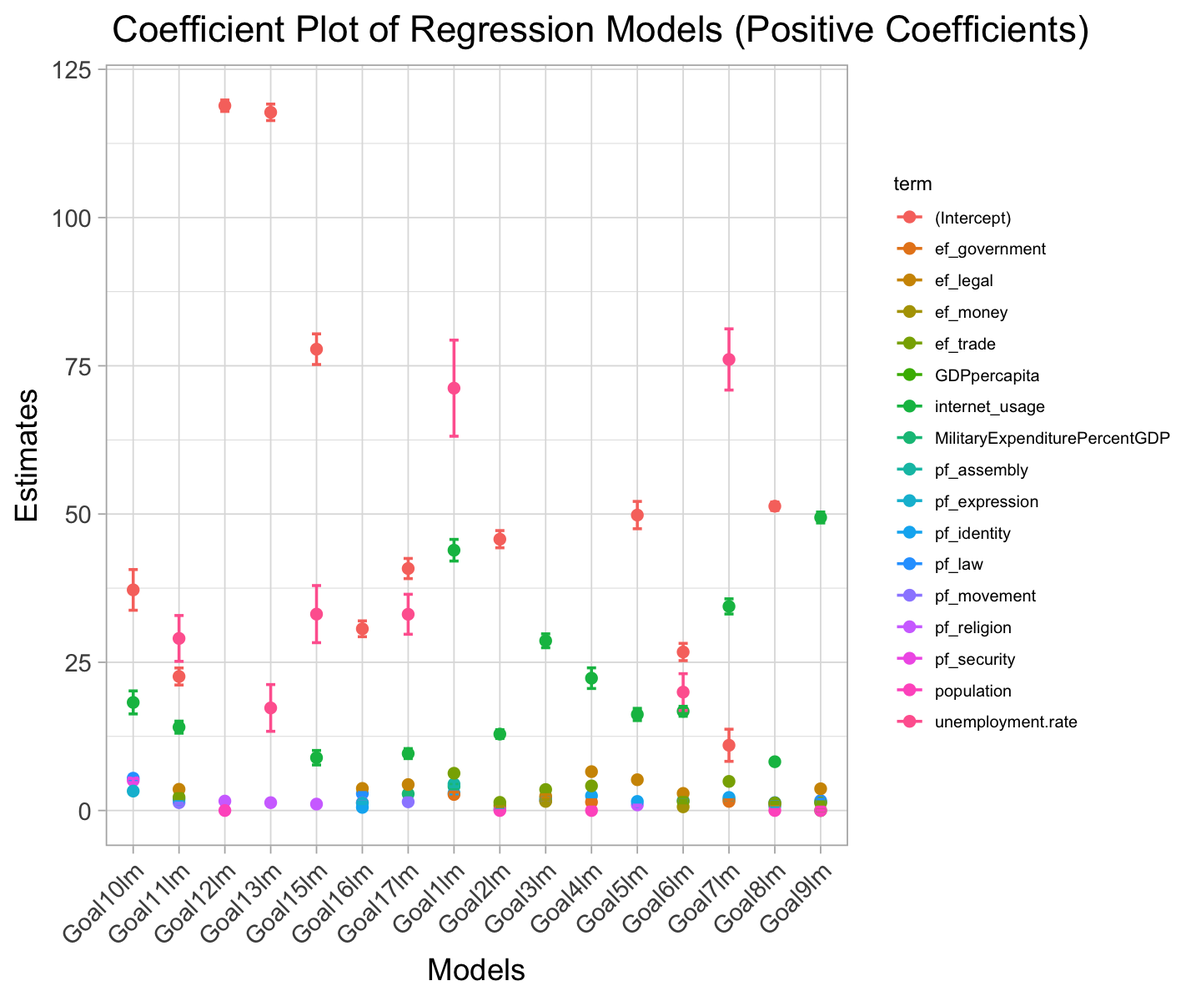
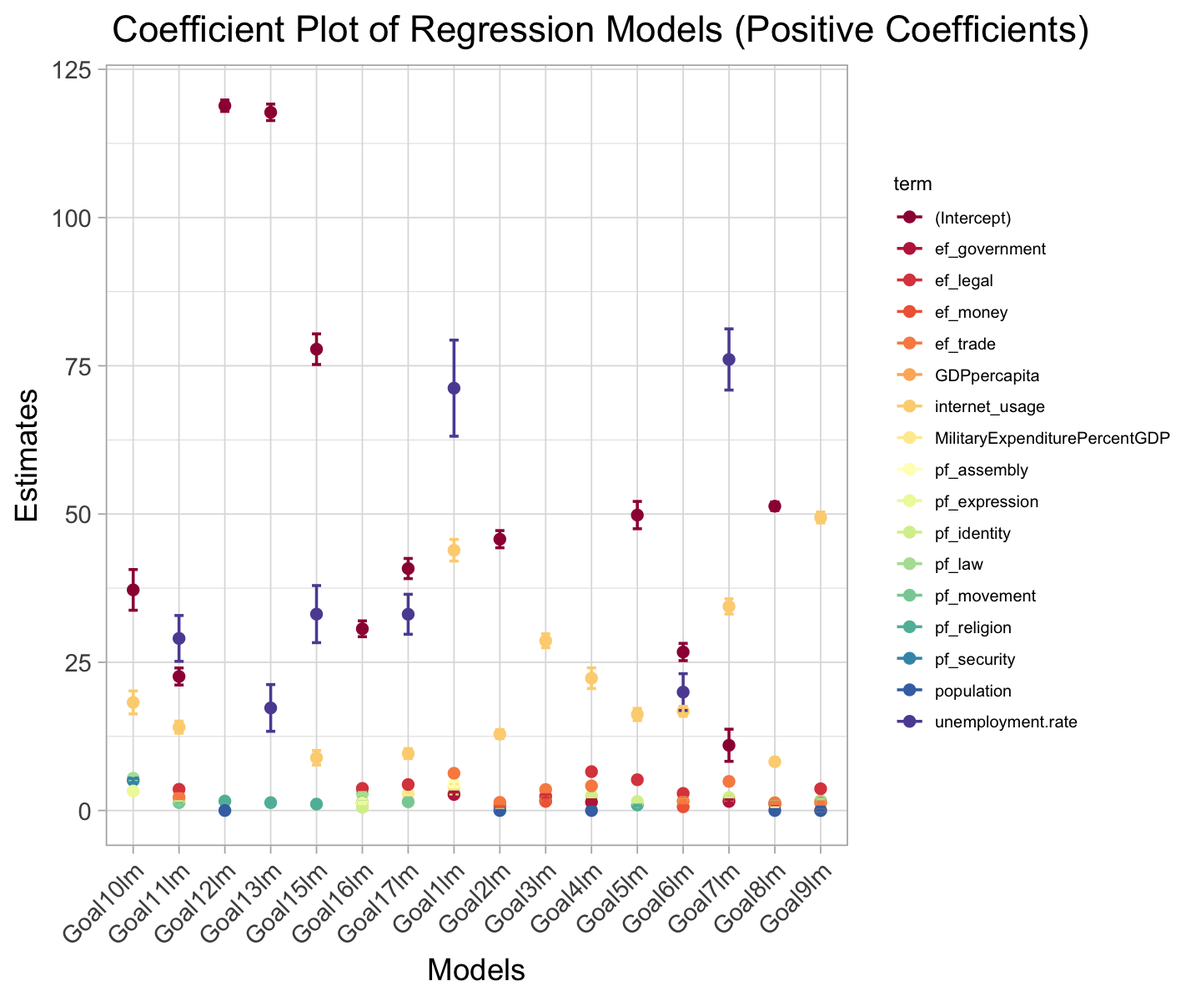
我太爱了 Data Science

diff --git a/report/question1.html b/report/question1.html
@@ -946,34 +946,36 @@ Goal17\sim \beta_0 &amp;+ unemployment.rate*\beta_1 + MilitaryExpenditurePercent
 <span id="cb16-34"><a href="#cb16-34" aria-hidden="true" tabindex="-1"></a></span>
 <span id="cb16-35"><a href="#cb16-35" aria-hidden="true" tabindex="-1"></a><span class="co">#coefficient plot</span></span>
 <span id="cb16-36"><a href="#cb16-36" aria-hidden="true" tabindex="-1"></a></span>
-<span id="cb16-37"><a href="#cb16-37" aria-hidden="true" tabindex="-1"></a><span class="co">#library('broom')</span></span>
-<span id="cb16-38"><a href="#cb16-38" aria-hidden="true" tabindex="-1"></a><span class="co"># Create a dataframe of tidy models</span></span>
-<span id="cb16-39"><a href="#cb16-39" aria-hidden="true" tabindex="-1"></a>model_list <span class="ot">&lt;-</span> <span class="fu">list</span>(Goal1lm, Goal2lm, Goal3lm, Goal4lm, Goal5lm, Goal6lm, Goal7lm, Goal8lm, Goal9lm, Goal10lm, Goal11lm, Goal12lm, Goal13lm, Goal15lm, Goal16lm, Goal17lm)</span>
-<span id="cb16-40"><a href="#cb16-40" aria-hidden="true" tabindex="-1"></a></span>
-<span id="cb16-41"><a href="#cb16-41" aria-hidden="true" tabindex="-1"></a>models_tidy <span class="ot">&lt;-</span> <span class="fu">lapply</span>(model_list, tidy)</span>
-<span id="cb16-42"><a href="#cb16-42" aria-hidden="true" tabindex="-1"></a><span class="fu">names</span>(models_tidy) <span class="ot">&lt;-</span> <span class="fu">paste</span>(<span class="st">"Goal"</span>, <span class="fu">c</span>(<span class="dv">1</span><span class="sc">:</span><span class="dv">13</span>, <span class="dv">15</span><span class="sc">:</span><span class="dv">17</span>), <span class="st">"lm"</span>, <span class="at">sep=</span><span class="st">""</span>)</span>
-<span id="cb16-43"><a href="#cb16-43" aria-hidden="true" tabindex="-1"></a></span>
-<span id="cb16-44"><a href="#cb16-44" aria-hidden="true" tabindex="-1"></a><span class="co"># Combine into a single dataframe</span></span>
-<span id="cb16-45"><a href="#cb16-45" aria-hidden="true" tabindex="-1"></a>df_tidy <span class="ot">&lt;-</span> <span class="fu">do.call</span>(rbind, <span class="fu">lapply</span>(<span class="fu">names</span>(models_tidy), <span class="cf">function</span>(x) <span class="fu">cbind</span>(models_tidy[[x]], <span class="at">Model=</span>x)))</span>
-<span id="cb16-46"><a href="#cb16-46" aria-hidden="true" tabindex="-1"></a></span>
-<span id="cb16-47"><a href="#cb16-47" aria-hidden="true" tabindex="-1"></a><span class="co"># Assuming 'p.value' is the column name for p-values in your dataframe</span></span>
-<span id="cb16-48"><a href="#cb16-48" aria-hidden="true" tabindex="-1"></a>significance_level <span class="ot">&lt;-</span> <span class="fl">0.05</span></span>
-<span id="cb16-49"><a href="#cb16-49" aria-hidden="true" tabindex="-1"></a></span>
-<span id="cb16-50"><a href="#cb16-50" aria-hidden="true" tabindex="-1"></a><span class="co"># Filter for significant p-values</span></span>
-<span id="cb16-51"><a href="#cb16-51" aria-hidden="true" tabindex="-1"></a>df_tidy_significant <span class="ot">&lt;-</span> df_tidy[df_tidy<span class="sc">$</span>p.value <span class="sc">&lt;</span> significance_level, ]</span>
+<span id="cb16-37"><a href="#cb16-37" aria-hidden="true" tabindex="-1"></a><span class="co"># Create a dataframe of tidy models</span></span>
+<span id="cb16-38"><a href="#cb16-38" aria-hidden="true" tabindex="-1"></a>model_list <span class="ot">&lt;-</span> <span class="fu">list</span>(Goal1lm, Goal2lm, Goal3lm, Goal4lm, Goal5lm, Goal6lm, Goal7lm, Goal8lm, Goal9lm, Goal10lm, Goal11lm, Goal12lm, Goal13lm, Goal15lm, Goal16lm, Goal17lm)</span>
+<span id="cb16-39"><a href="#cb16-39" aria-hidden="true" tabindex="-1"></a></span>
+<span id="cb16-40"><a href="#cb16-40" aria-hidden="true" tabindex="-1"></a>models_tidy <span class="ot">&lt;-</span> <span class="fu">lapply</span>(model_list, tidy)</span>
+<span id="cb16-41"><a href="#cb16-41" aria-hidden="true" tabindex="-1"></a><span class="fu">names</span>(models_tidy) <span class="ot">&lt;-</span> <span class="fu">paste</span>(<span class="st">"Goal"</span>, <span class="fu">c</span>(<span class="dv">1</span><span class="sc">:</span><span class="dv">13</span>, <span class="dv">15</span><span class="sc">:</span><span class="dv">17</span>), <span class="st">"lm"</span>, <span class="at">sep=</span><span class="st">""</span>)</span>
+<span id="cb16-42"><a href="#cb16-42" aria-hidden="true" tabindex="-1"></a></span>
+<span id="cb16-43"><a href="#cb16-43" aria-hidden="true" tabindex="-1"></a><span class="co"># Combine into a single dataframe</span></span>
+<span id="cb16-44"><a href="#cb16-44" aria-hidden="true" tabindex="-1"></a>df_tidy <span class="ot">&lt;-</span> <span class="fu">do.call</span>(rbind, <span class="fu">lapply</span>(<span class="fu">names</span>(models_tidy), <span class="cf">function</span>(x) <span class="fu">cbind</span>(models_tidy[[x]], <span class="at">Model=</span>x)))</span>
+<span id="cb16-45"><a href="#cb16-45" aria-hidden="true" tabindex="-1"></a></span>
+<span id="cb16-46"><a href="#cb16-46" aria-hidden="true" tabindex="-1"></a><span class="co"># Assuming 'p.value' is the column name for p-values in your dataframe</span></span>
+<span id="cb16-47"><a href="#cb16-47" aria-hidden="true" tabindex="-1"></a>significance_level <span class="ot">&lt;-</span> <span class="fl">0.05</span></span>
+<span id="cb16-48"><a href="#cb16-48" aria-hidden="true" tabindex="-1"></a></span>
+<span id="cb16-49"><a href="#cb16-49" aria-hidden="true" tabindex="-1"></a><span class="co"># Filter for significant p-values</span></span>
+<span id="cb16-50"><a href="#cb16-50" aria-hidden="true" tabindex="-1"></a>df_tidy_significant <span class="ot">&lt;-</span> df_tidy[df_tidy<span class="sc">$</span>p.value <span class="sc">&lt;</span> significance_level, ]</span>
+<span id="cb16-51"><a href="#cb16-51" aria-hidden="true" tabindex="-1"></a><span class="fu">library</span>(RColorBrewer)</span>
 <span id="cb16-52"><a href="#cb16-52" aria-hidden="true" tabindex="-1"></a></span>
-<span id="cb16-53"><a href="#cb16-53" aria-hidden="true" tabindex="-1"></a><span class="co"># Plot</span></span>
-<span id="cb16-54"><a href="#cb16-54" aria-hidden="true" tabindex="-1"></a><span class="fu">ggplot</span>(df_tidy_significant, <span class="fu">aes</span>(<span class="at">x =</span> Model, <span class="at">y =</span> estimate, <span class="at">color =</span> term)) <span class="sc">+</span></span>
-<span id="cb16-55"><a href="#cb16-55" aria-hidden="true" tabindex="-1"></a>  <span class="fu">geom_point</span>() <span class="sc">+</span></span>
-<span id="cb16-56"><a href="#cb16-56" aria-hidden="true" tabindex="-1"></a>  <span class="fu">geom_errorbar</span>(<span class="fu">aes</span>(<span class="at">ymin =</span> estimate <span class="sc">-</span> std.error, <span class="at">ymax =</span> estimate <span class="sc">+</span> std.error), <span class="at">width =</span> <span class="fl">0.2</span>) <span class="sc">+</span></span>
-<span id="cb16-57"><a href="#cb16-57" aria-hidden="true" tabindex="-1"></a>  <span class="fu">theme</span>(<span class="at">axis.text.x =</span> <span class="fu">element_text</span>(<span class="at">angle =</span> <span class="dv">45</span>, <span class="at">hjust =</span> <span class="dv">1</span>),</span>
-<span id="cb16-58"><a href="#cb16-58" aria-hidden="true" tabindex="-1"></a>        <span class="at">plot.title =</span> <span class="fu">element_text</span>(<span class="at">hjust =</span> <span class="fl">0.5</span>), <span class="co"># Center the title</span></span>
-<span id="cb16-59"><a href="#cb16-59" aria-hidden="true" tabindex="-1"></a>        <span class="at">plot.title.position =</span> <span class="st">"plot"</span>,</span>
-<span id="cb16-60"><a href="#cb16-60" aria-hidden="true" tabindex="-1"></a>        <span class="at">legend.position =</span> <span class="st">"right"</span>, <span class="co"># You can change the position if needed</span></span>
-<span id="cb16-61"><a href="#cb16-61" aria-hidden="true" tabindex="-1"></a>        <span class="at">legend.text =</span> <span class="fu">element_text</span>(<span class="at">size =</span> <span class="dv">6</span>), <span class="co"># Adjust text size</span></span>
-<span id="cb16-62"><a href="#cb16-62" aria-hidden="true" tabindex="-1"></a>        <span class="at">legend.title =</span> <span class="fu">element_text</span>(<span class="at">size =</span> <span class="dv">7</span>), <span class="co"># Adjust title size</span></span>
-<span id="cb16-63"><a href="#cb16-63" aria-hidden="true" tabindex="-1"></a>        <span class="at">legend.key.size =</span> <span class="fu">unit</span>(<span class="fl">0.4</span>, <span class="st">"cm"</span>)) <span class="sc">+</span>  <span class="co"># Adjust key size) +</span></span>
-<span id="cb16-64"><a href="#cb16-64" aria-hidden="true" tabindex="-1"></a>  <span class="fu">labs</span>(<span class="at">title =</span> <span class="st">"Coefficient Plot of Regression Models"</span>, <span class="at">x =</span> <span class="st">"Models"</span>, <span class="at">y =</span> <span class="st">"Estimates"</span>)</span></code><button title="Copy to Clipboard" class="code-copy-button"><i class="bi"></i></button></pre></div>
+<span id="cb16-53"><a href="#cb16-53" aria-hidden="true" tabindex="-1"></a>myColors <span class="ot">&lt;-</span> <span class="fu">colorRampPalette</span>(<span class="fu">brewer.pal</span>(<span class="dv">11</span>, <span class="st">"Spectral"</span>))(<span class="fu">length</span>(<span class="fu">unique</span>(df_tidy_significant<span class="sc">$</span>term)))</span>
+<span id="cb16-54"><a href="#cb16-54" aria-hidden="true" tabindex="-1"></a><span class="co"># Plot</span></span>
+<span id="cb16-55"><a href="#cb16-55" aria-hidden="true" tabindex="-1"></a><span class="fu">ggplot</span>(df_tidy_significant, <span class="fu">aes</span>(<span class="at">x =</span> Model, <span class="at">y =</span> estimate, <span class="at">color =</span> term)) <span class="sc">+</span></span>
+<span id="cb16-56"><a href="#cb16-56" aria-hidden="true" tabindex="-1"></a>  <span class="fu">geom_point</span>() <span class="sc">+</span></span>
+<span id="cb16-57"><a href="#cb16-57" aria-hidden="true" tabindex="-1"></a>  <span class="fu">geom_errorbar</span>(<span class="fu">aes</span>(<span class="at">ymin =</span> estimate <span class="sc">-</span> std.error, <span class="at">ymax =</span> estimate <span class="sc">+</span> std.error), <span class="at">width =</span> <span class="fl">0.2</span>) <span class="sc">+</span></span>
+<span id="cb16-58"><a href="#cb16-58" aria-hidden="true" tabindex="-1"></a>  <span class="fu">scale_color_manual</span>(<span class="at">values =</span> myColors) <span class="sc">+</span> </span>
+<span id="cb16-59"><a href="#cb16-59" aria-hidden="true" tabindex="-1"></a>  <span class="fu">theme</span>(<span class="at">axis.text.x =</span> <span class="fu">element_text</span>(<span class="at">angle =</span> <span class="dv">45</span>, <span class="at">hjust =</span> <span class="dv">1</span>),</span>
+<span id="cb16-60"><a href="#cb16-60" aria-hidden="true" tabindex="-1"></a>        <span class="at">plot.title =</span> <span class="fu">element_text</span>(<span class="at">hjust =</span> <span class="fl">0.5</span>), <span class="co"># Center the title</span></span>
+<span id="cb16-61"><a href="#cb16-61" aria-hidden="true" tabindex="-1"></a>        <span class="at">plot.title.position =</span> <span class="st">"plot"</span>,</span>
+<span id="cb16-62"><a href="#cb16-62" aria-hidden="true" tabindex="-1"></a>        <span class="at">legend.position =</span> <span class="st">"right"</span>, <span class="co"># You can change the position if needed</span></span>
+<span id="cb16-63"><a href="#cb16-63" aria-hidden="true" tabindex="-1"></a>        <span class="at">legend.text =</span> <span class="fu">element_text</span>(<span class="at">size =</span> <span class="dv">6</span>), <span class="co"># Adjust text size</span></span>
+<span id="cb16-64"><a href="#cb16-64" aria-hidden="true" tabindex="-1"></a>        <span class="at">legend.title =</span> <span class="fu">element_text</span>(<span class="at">size =</span> <span class="dv">7</span>), <span class="co"># Adjust title size</span></span>
+<span id="cb16-65"><a href="#cb16-65" aria-hidden="true" tabindex="-1"></a>        <span class="at">legend.key.size =</span> <span class="fu">unit</span>(<span class="fl">0.4</span>, <span class="st">"cm"</span>)) <span class="sc">+</span>  <span class="co"># Adjust key size) +</span></span>
+<span id="cb16-66"><a href="#cb16-66" aria-hidden="true" tabindex="-1"></a>  <span class="fu">labs</span>(<span class="at">title =</span> <span class="st">"Coefficient Plot of Regression Models"</span>, <span class="at">x =</span> <span class="st">"Models"</span>, <span class="at">y =</span> <span class="st">"Estimates"</span>)</span></code><button title="Copy to Clipboard" class="code-copy-button"><i class="bi"></i></button></pre></div>
 <div class="cell-output-display">
 <div class="quarto-figure quarto-figure-center">
 <figure class="figure">
@@ -984,37 +986,40 @@ Goal17\sim \beta_0 &amp;+ unemployment.rate*\beta_1 + MilitaryExpenditurePercent
 </div>
 <p>Here is our general plot. For visualization purpose, let’s also plot the positive and negative correlation plots</p>
 <div class="cell" data-layout-align="center">
-<div class="sourceCode cell-code" id="cb17"><pre class="sourceCode r code-with-copy"><code class="sourceCode r"><span id="cb17-1"><a href="#cb17-1" aria-hidden="true" tabindex="-1"></a></span>
-<span id="cb17-2"><a href="#cb17-2" aria-hidden="true" tabindex="-1"></a><span class="co">#positive values only </span></span>
-<span id="cb17-3"><a href="#cb17-3" aria-hidden="true" tabindex="-1"></a>df_tidy_positive_p <span class="ot">&lt;-</span> df_tidy_significant[df_tidy_significant<span class="sc">$</span>estimate <span class="sc">&gt;</span> <span class="dv">0</span>, ]</span>
-<span id="cb17-4"><a href="#cb17-4" aria-hidden="true" tabindex="-1"></a></span>
+<div class="sourceCode cell-code" id="cb17"><pre class="sourceCode r code-with-copy"><code class="sourceCode r"><span id="cb17-1"><a href="#cb17-1" aria-hidden="true" tabindex="-1"></a><span class="co">#positive values only </span></span>
+<span id="cb17-2"><a href="#cb17-2" aria-hidden="true" tabindex="-1"></a>df_tidy_positive_p <span class="ot">&lt;-</span> df_tidy_significant[df_tidy_significant<span class="sc">$</span>estimate <span class="sc">&gt;</span> <span class="dv">0</span>, ]</span>
+<span id="cb17-3"><a href="#cb17-3" aria-hidden="true" tabindex="-1"></a></span>
+<span id="cb17-4"><a href="#cb17-4" aria-hidden="true" tabindex="-1"></a>myColors <span class="ot">&lt;-</span> <span class="fu">colorRampPalette</span>(<span class="fu">brewer.pal</span>(<span class="dv">11</span>, <span class="st">"Spectral"</span>))(<span class="fu">length</span>(<span class="fu">unique</span>(df_tidy_positive_p<span class="sc">$</span>term)))</span>
 <span id="cb17-5"><a href="#cb17-5" aria-hidden="true" tabindex="-1"></a><span class="co"># Plot only positive coefficients</span></span>
 <span id="cb17-6"><a href="#cb17-6" aria-hidden="true" tabindex="-1"></a><span class="fu">ggplot</span>(df_tidy_positive_p, <span class="fu">aes</span>(<span class="at">x =</span> Model, <span class="at">y =</span> estimate, <span class="at">color =</span> term)) <span class="sc">+</span></span>
 <span id="cb17-7"><a href="#cb17-7" aria-hidden="true" tabindex="-1"></a>  <span class="fu">geom_point</span>() <span class="sc">+</span></span>
 <span id="cb17-8"><a href="#cb17-8" aria-hidden="true" tabindex="-1"></a>  <span class="fu">geom_errorbar</span>(<span class="fu">aes</span>(<span class="at">ymin =</span> estimate <span class="sc">-</span> std.error, <span class="at">ymax =</span> estimate <span class="sc">+</span> std.error), <span class="at">width =</span> <span class="fl">0.2</span>) <span class="sc">+</span></span>
-<span id="cb17-9"><a href="#cb17-9" aria-hidden="true" tabindex="-1"></a>  <span class="fu">theme</span>(<span class="at">axis.text.x =</span> <span class="fu">element_text</span>(<span class="at">angle =</span> <span class="dv">45</span>, <span class="at">hjust =</span> <span class="dv">1</span>),</span>
-<span id="cb17-10"><a href="#cb17-10" aria-hidden="true" tabindex="-1"></a>        <span class="at">plot.title =</span> <span class="fu">element_text</span>(<span class="at">hjust =</span> <span class="fl">0.5</span>),</span>
-<span id="cb17-11"><a href="#cb17-11" aria-hidden="true" tabindex="-1"></a>        <span class="at">plot.title.position =</span> <span class="st">"plot"</span>,</span>
-<span id="cb17-12"><a href="#cb17-12" aria-hidden="true" tabindex="-1"></a>        <span class="at">legend.position =</span> <span class="st">"right"</span>,</span>
-<span id="cb17-13"><a href="#cb17-13" aria-hidden="true" tabindex="-1"></a>        <span class="at">legend.text =</span> <span class="fu">element_text</span>(<span class="at">size =</span> <span class="dv">6</span>),</span>
-<span id="cb17-14"><a href="#cb17-14" aria-hidden="true" tabindex="-1"></a>        <span class="at">legend.title =</span> <span class="fu">element_text</span>(<span class="at">size =</span> <span class="dv">7</span>),</span>
-<span id="cb17-15"><a href="#cb17-15" aria-hidden="true" tabindex="-1"></a>        <span class="at">legend.key.size =</span> <span class="fu">unit</span>(<span class="fl">0.4</span>, <span class="st">"cm"</span>)) <span class="sc">+</span></span>
-<span id="cb17-16"><a href="#cb17-16" aria-hidden="true" tabindex="-1"></a>  <span class="fu">labs</span>(<span class="at">title =</span> <span class="st">"Coefficient Plot of Regression Models (Positive Coefficients)"</span>, <span class="at">x =</span> <span class="st">"Models"</span>, <span class="at">y =</span> <span class="st">"Estimates"</span>)</span>
-<span id="cb17-17"><a href="#cb17-17" aria-hidden="true" tabindex="-1"></a></span>
-<span id="cb17-18"><a href="#cb17-18" aria-hidden="true" tabindex="-1"></a><span class="co">#negative values only</span></span>
-<span id="cb17-19"><a href="#cb17-19" aria-hidden="true" tabindex="-1"></a>df_tidy_positive_n <span class="ot">&lt;-</span> df_tidy_significant[df_tidy_significant<span class="sc">$</span>estimate <span class="sc">&lt;</span> <span class="dv">0</span>, ]</span>
-<span id="cb17-20"><a href="#cb17-20" aria-hidden="true" tabindex="-1"></a></span>
-<span id="cb17-21"><a href="#cb17-21" aria-hidden="true" tabindex="-1"></a><span class="fu">ggplot</span>(df_tidy_positive_n, <span class="fu">aes</span>(<span class="at">x =</span> Model, <span class="at">y =</span> estimate, <span class="at">color =</span> term)) <span class="sc">+</span></span>
-<span id="cb17-22"><a href="#cb17-22" aria-hidden="true" tabindex="-1"></a>  <span class="fu">geom_point</span>() <span class="sc">+</span></span>
-<span id="cb17-23"><a href="#cb17-23" aria-hidden="true" tabindex="-1"></a>  <span class="fu">geom_errorbar</span>(<span class="fu">aes</span>(<span class="at">ymin =</span> estimate <span class="sc">-</span> std.error, <span class="at">ymax =</span> estimate <span class="sc">+</span> std.error), <span class="at">width =</span> <span class="fl">0.2</span>) <span class="sc">+</span></span>
-<span id="cb17-24"><a href="#cb17-24" aria-hidden="true" tabindex="-1"></a>  <span class="fu">theme</span>(<span class="at">axis.text.x =</span> <span class="fu">element_text</span>(<span class="at">angle =</span> <span class="dv">45</span>, <span class="at">hjust =</span> <span class="dv">1</span>),</span>
-<span id="cb17-25"><a href="#cb17-25" aria-hidden="true" tabindex="-1"></a>        <span class="at">plot.title =</span> <span class="fu">element_text</span>(<span class="at">hjust =</span> <span class="fl">0.5</span>),</span>
-<span id="cb17-26"><a href="#cb17-26" aria-hidden="true" tabindex="-1"></a>        <span class="at">plot.title.position =</span> <span class="st">"plot"</span>,</span>
-<span id="cb17-27"><a href="#cb17-27" aria-hidden="true" tabindex="-1"></a>        <span class="at">legend.position =</span> <span class="st">"right"</span>,</span>
-<span id="cb17-28"><a href="#cb17-28" aria-hidden="true" tabindex="-1"></a>        <span class="at">legend.text =</span> <span class="fu">element_text</span>(<span class="at">size =</span> <span class="dv">6</span>),</span>
-<span id="cb17-29"><a href="#cb17-29" aria-hidden="true" tabindex="-1"></a>        <span class="at">legend.title =</span> <span class="fu">element_text</span>(<span class="at">size =</span> <span class="dv">7</span>),</span>
-<span id="cb17-30"><a href="#cb17-30" aria-hidden="true" tabindex="-1"></a>        <span class="at">legend.key.size =</span> <span class="fu">unit</span>(<span class="fl">0.4</span>, <span class="st">"cm"</span>)) <span class="sc">+</span></span>
-<span id="cb17-31"><a href="#cb17-31" aria-hidden="true" tabindex="-1"></a>  <span class="fu">labs</span>(<span class="at">title =</span> <span class="st">"Coefficient Plot of Regression Models (Negative Coefficients)"</span>, <span class="at">x =</span> <span class="st">"Models"</span>, <span class="at">y =</span> <span class="st">"Estimates"</span>)</span></code><button title="Copy to Clipboard" class="code-copy-button"><i class="bi"></i></button></pre></div>
+<span id="cb17-9"><a href="#cb17-9" aria-hidden="true" tabindex="-1"></a>  <span class="fu">scale_color_manual</span>(<span class="at">values =</span> myColors) <span class="sc">+</span> </span>
+<span id="cb17-10"><a href="#cb17-10" aria-hidden="true" tabindex="-1"></a>  <span class="fu">theme</span>(<span class="at">axis.text.x =</span> <span class="fu">element_text</span>(<span class="at">angle =</span> <span class="dv">45</span>, <span class="at">hjust =</span> <span class="dv">1</span>),</span>
+<span id="cb17-11"><a href="#cb17-11" aria-hidden="true" tabindex="-1"></a>        <span class="at">plot.title =</span> <span class="fu">element_text</span>(<span class="at">hjust =</span> <span class="fl">0.5</span>),</span>
+<span id="cb17-12"><a href="#cb17-12" aria-hidden="true" tabindex="-1"></a>        <span class="at">plot.title.position =</span> <span class="st">"plot"</span>,</span>
+<span id="cb17-13"><a href="#cb17-13" aria-hidden="true" tabindex="-1"></a>        <span class="at">legend.position =</span> <span class="st">"right"</span>,</span>
+<span id="cb17-14"><a href="#cb17-14" aria-hidden="true" tabindex="-1"></a>        <span class="at">legend.text =</span> <span class="fu">element_text</span>(<span class="at">size =</span> <span class="dv">6</span>),</span>
+<span id="cb17-15"><a href="#cb17-15" aria-hidden="true" tabindex="-1"></a>        <span class="at">legend.title =</span> <span class="fu">element_text</span>(<span class="at">size =</span> <span class="dv">7</span>),</span>
+<span id="cb17-16"><a href="#cb17-16" aria-hidden="true" tabindex="-1"></a>        <span class="at">legend.key.size =</span> <span class="fu">unit</span>(<span class="fl">0.4</span>, <span class="st">"cm"</span>)) <span class="sc">+</span></span>
+<span id="cb17-17"><a href="#cb17-17" aria-hidden="true" tabindex="-1"></a>  <span class="fu">labs</span>(<span class="at">title =</span> <span class="st">"Coefficient Plot of Regression Models (Positive Coefficients)"</span>, <span class="at">x =</span> <span class="st">"Models"</span>, <span class="at">y =</span> <span class="st">"Estimates"</span>)</span>
+<span id="cb17-18"><a href="#cb17-18" aria-hidden="true" tabindex="-1"></a></span>
+<span id="cb17-19"><a href="#cb17-19" aria-hidden="true" tabindex="-1"></a><span class="co">#negative values only</span></span>
+<span id="cb17-20"><a href="#cb17-20" aria-hidden="true" tabindex="-1"></a>df_tidy_positive_n <span class="ot">&lt;-</span> df_tidy_significant[df_tidy_significant<span class="sc">$</span>estimate <span class="sc">&lt;</span> <span class="dv">0</span>, ]</span>
+<span id="cb17-21"><a href="#cb17-21" aria-hidden="true" tabindex="-1"></a>myColors <span class="ot">&lt;-</span> <span class="fu">colorRampPalette</span>(<span class="fu">brewer.pal</span>(<span class="dv">11</span>, <span class="st">"Spectral"</span>))(<span class="fu">length</span>(<span class="fu">unique</span>(df_tidy_positive_n<span class="sc">$</span>term)))</span>
+<span id="cb17-22"><a href="#cb17-22" aria-hidden="true" tabindex="-1"></a></span>
+<span id="cb17-23"><a href="#cb17-23" aria-hidden="true" tabindex="-1"></a><span class="fu">ggplot</span>(df_tidy_positive_n, <span class="fu">aes</span>(<span class="at">x =</span> Model, <span class="at">y =</span> estimate, <span class="at">color =</span> term)) <span class="sc">+</span></span>
+<span id="cb17-24"><a href="#cb17-24" aria-hidden="true" tabindex="-1"></a>  <span class="fu">geom_point</span>() <span class="sc">+</span></span>
+<span id="cb17-25"><a href="#cb17-25" aria-hidden="true" tabindex="-1"></a>  <span class="fu">geom_errorbar</span>(<span class="fu">aes</span>(<span class="at">ymin =</span> estimate <span class="sc">-</span> std.error, <span class="at">ymax =</span> estimate <span class="sc">+</span> std.error), <span class="at">width =</span> <span class="fl">0.2</span>) <span class="sc">+</span></span>
+<span id="cb17-26"><a href="#cb17-26" aria-hidden="true" tabindex="-1"></a>  <span class="fu">scale_color_manual</span>(<span class="at">values =</span> myColors) <span class="sc">+</span> </span>
+<span id="cb17-27"><a href="#cb17-27" aria-hidden="true" tabindex="-1"></a>  <span class="fu">theme</span>(<span class="at">axis.text.x =</span> <span class="fu">element_text</span>(<span class="at">angle =</span> <span class="dv">45</span>, <span class="at">hjust =</span> <span class="dv">1</span>),</span>
+<span id="cb17-28"><a href="#cb17-28" aria-hidden="true" tabindex="-1"></a>        <span class="at">plot.title =</span> <span class="fu">element_text</span>(<span class="at">hjust =</span> <span class="fl">0.5</span>),</span>
+<span id="cb17-29"><a href="#cb17-29" aria-hidden="true" tabindex="-1"></a>        <span class="at">plot.title.position =</span> <span class="st">"plot"</span>,</span>
+<span id="cb17-30"><a href="#cb17-30" aria-hidden="true" tabindex="-1"></a>        <span class="at">legend.position =</span> <span class="st">"right"</span>,</span>
+<span id="cb17-31"><a href="#cb17-31" aria-hidden="true" tabindex="-1"></a>        <span class="at">legend.text =</span> <span class="fu">element_text</span>(<span class="at">size =</span> <span class="dv">6</span>),</span>
+<span id="cb17-32"><a href="#cb17-32" aria-hidden="true" tabindex="-1"></a>        <span class="at">legend.title =</span> <span class="fu">element_text</span>(<span class="at">size =</span> <span class="dv">7</span>),</span>
+<span id="cb17-33"><a href="#cb17-33" aria-hidden="true" tabindex="-1"></a>        <span class="at">legend.key.size =</span> <span class="fu">unit</span>(<span class="fl">0.4</span>, <span class="st">"cm"</span>)) <span class="sc">+</span></span>
+<span id="cb17-34"><a href="#cb17-34" aria-hidden="true" tabindex="-1"></a>  <span class="fu">labs</span>(<span class="at">title =</span> <span class="st">"Coefficient Plot of Regression Models (Negative Coefficients)"</span>, <span class="at">x =</span> <span class="st">"Models"</span>, <span class="at">y =</span> <span class="st">"Estimates"</span>)</span></code><button title="Copy to Clipboard" class="code-copy-button"><i class="bi"></i></button></pre></div>
 <div class="cell-output-display">
 <div class="quarto-figure quarto-figure-center">
 <figure class="figure">
